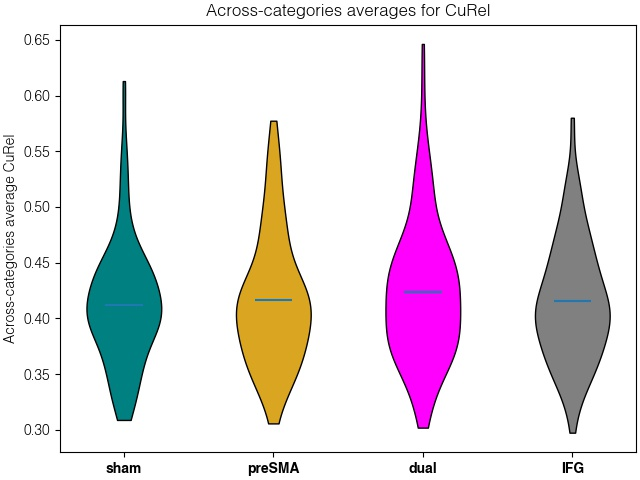
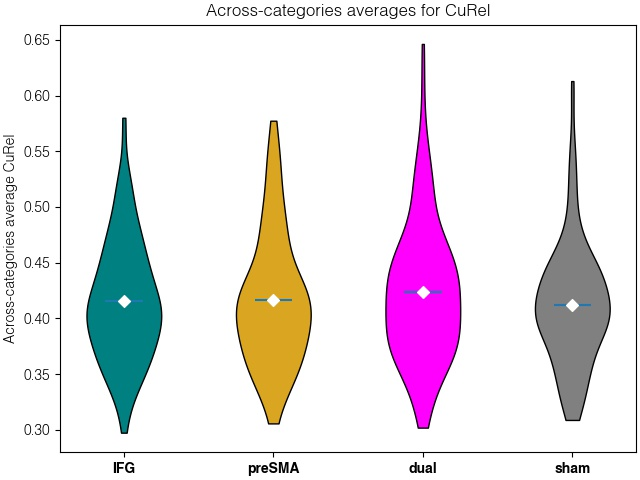
update

diff --git a/analysis.py b/analysis.py
@@ -109,7 +109,8 @@ os.makedirs(out_folder, exist_ok=True)
 for metric, results in [('CuRel', curels), ('SeqRel', seqrels), ('Switches', switches)]:
     fig, ax = pyplot.subplots(constrained_layout=True)
     title = 'Across-categories averages for {}'.format(metric)
-    xs = list(results.keys())
+    #xs = list(results.keys())
+    xs = ['IFG', 'preSMA', 'dual', 'sham']
     ys = [[val for v in results[k].values() for val in v] for k in xs]
     parts = ax.violinplot(ys, positions=range(len(ys)), showmeans=True, showextrema=False,)
     ax.set_xticks(range(len(xs)))
@@ -120,7 +121,7 @@ for metric, results in [('CuRel', curels), ('SeqRel', seqrels), ('Switches', swi
         pc.set_alpha(1)
         #m = numpy.mean(pc.get_paths()[0].vertices[:, 0])
         #pc.get_paths()[0].vertices[:, 0] = numpy.clip(pc.get_paths()[0].vertices[:, 0], -numpy.inf, m)
-    ax.scatter(range(len(xs)), [[numpy.average(v) for v in results[k].values()] for k in xs],zorder=3, color=white, marker='D')
+    ax.scatter(range(len(xs)), [numpy.average([val for v in results[k].values() for val in v]) for k in xs],zorder=3, color='white', marker='D')
     ax.set_ylabel('Across-categories average {}'.format(metric))
     ax.set_title(title)
     pyplot.savefig(os.path.join(out_folder, '{}_average.jpg'.format(metric)))
